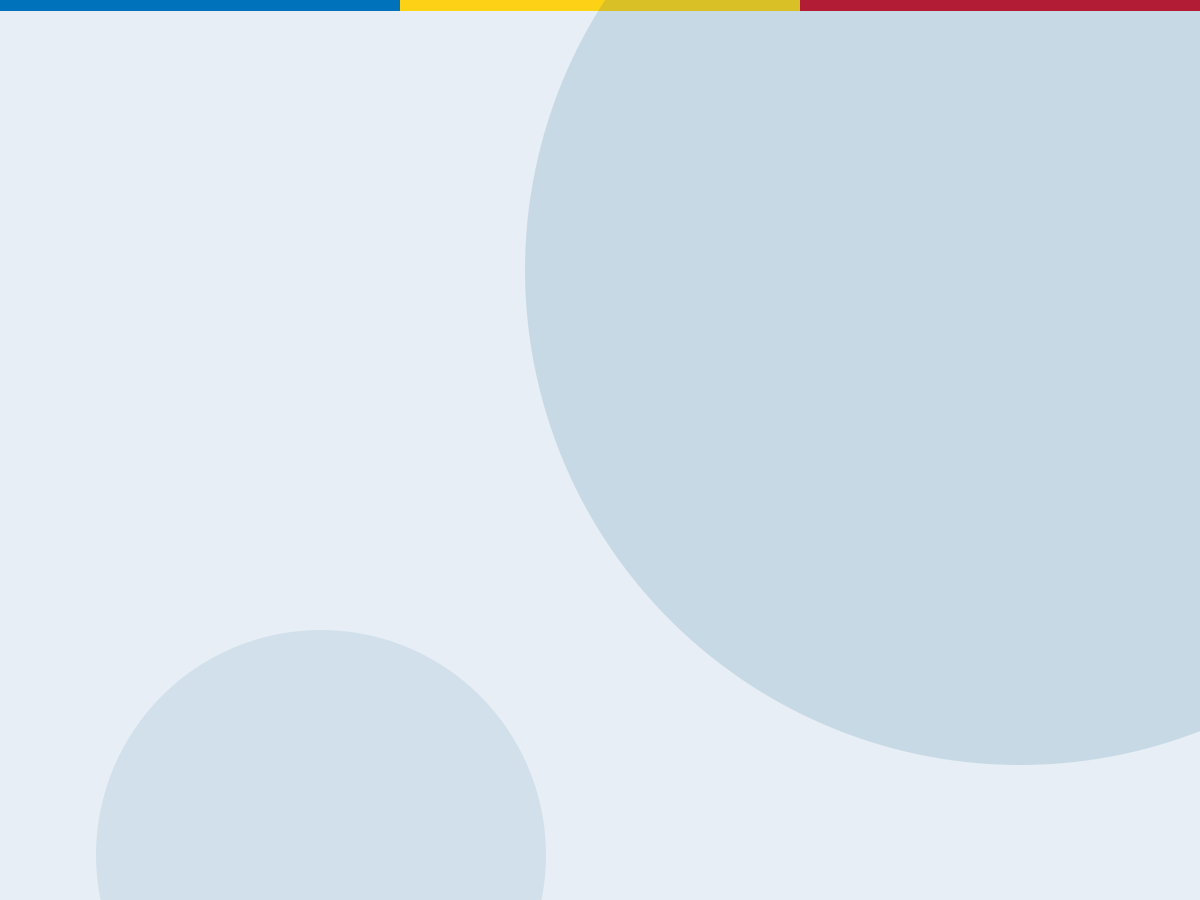
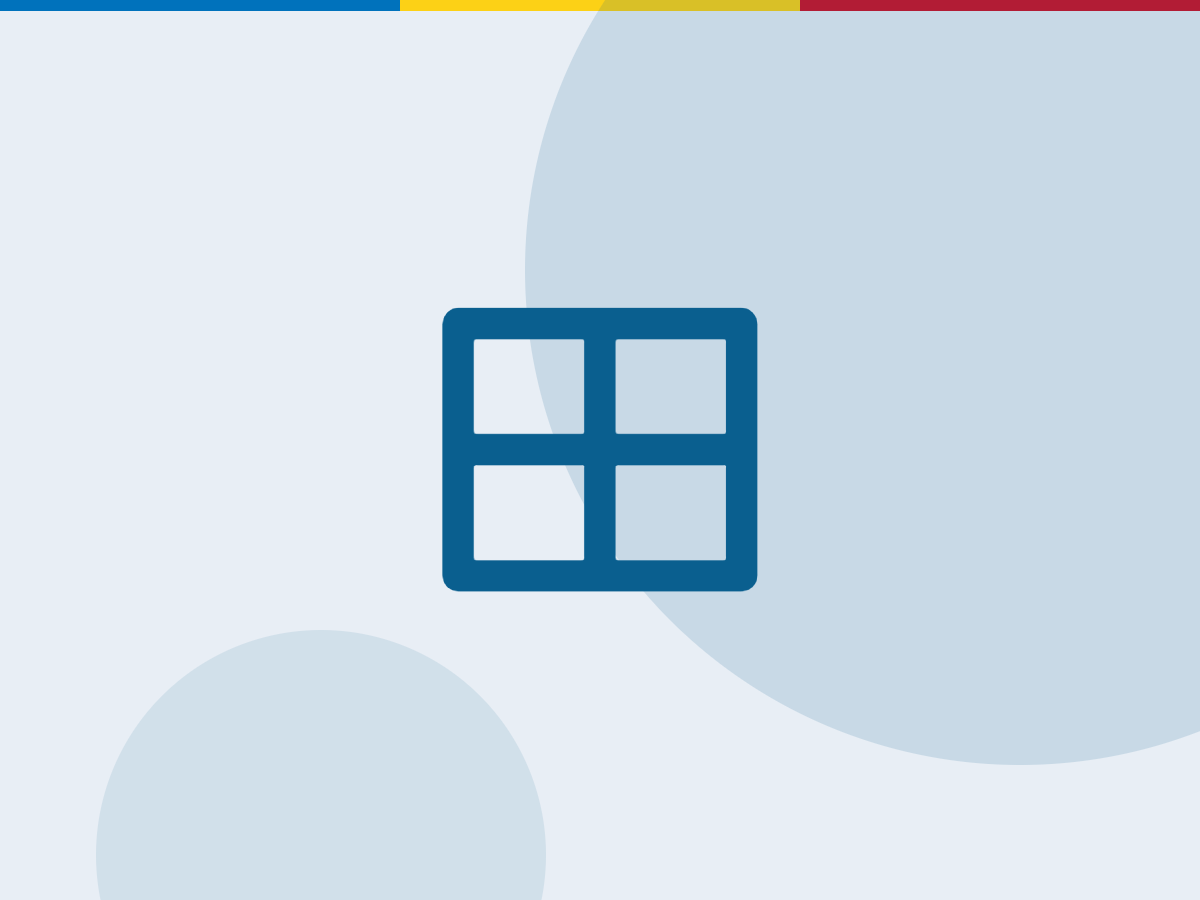
Relecture des composants : image et texte côte à côte, bandeau sur image, en-tête 4:3, onglets sans icône, pictogrammes et illustrations, index des exemples, guides illustrés, page contact ; SDCD 0.18.6

Changed region(s): [[0.37, 0.3422, 0.6475, 0.6844]]

diff --git a/sdcd/static/sdcd/components.css b/sdcd/static/sdcd/components.css
@@ -1250,7 +1250,9 @@ li > a:only-child {
    presentation de chaque carte : fond, bordure, ombre, disposition. Sans eux le
    portage aurait supprime une capacite editoriale existante — ce qui aurait ete
    une regression deguisee en migration. */
-.sdcd-card--horizontal { display: flex; }
+/* Horizontale : en rangee (la base est une colonne), le media a gauche par
+   son `order`, aligne sur toute la hauteur de la carte. */
+.sdcd-card--horizontal { display: flex; flex-direction: row; align-items: stretch; }
 .sdcd-card--horizontal .sdcd-card__media { width: 33%; height: auto; flex-shrink: 0; }
 .sdcd-card--horizontal .sdcd-card__corps { flex: 1; min-width: 0; }
 .sdcd-card--gris { background: var(--sdcd-fond-alt); }
@@ -1277,7 +1279,11 @@ li > a:only-child {
 
 .sdcd-tile {
   display: flex;
-  flex-direction: column;
+  /* Le pictogramme vient apres le corps dans le balisage (gabarits du CMS,
+     comme dans le DSFR) mais se lit en haut : l'ordre est inverse, et le
+     contenu reste cale en haut de la tuile quand la grille l'etire. */
+  flex-direction: column-reverse;
+  justify-content: flex-end;
   gap: var(--sdcd-3);
   padding: 20px;
   text-decoration: none;
@@ -2503,6 +2509,8 @@ dialog.sdcd-modal__voile:not([open]) { display: none; }
   padding: var(--sdcd-5);
   display: flex;
   flex-direction: column;
+  /* Sans cela, un bouton place dans l'exergue s'etirait sur toute sa largeur. */
+  align-items: flex-start;
   gap: var(--sdcd-2);
   font-family: var(--sdcd-font);
 }
@@ -2824,7 +2832,10 @@ dialog.sdcd-modal__voile:not([open]) { display: none; }
 /* La tuile offre les memes reglages de presentation que la carte : le rediger
    choisit fond, bordure, ombre et disposition sans avoir a savoir lequel des
    deux composants il emploie. */
-.sdcd-tile--horizontal { flex-direction: row; align-items: center; }
+/* Horizontale : le corps a gauche prend la place, le pictogramme a droite. */
+.sdcd-tile--horizontal { flex-direction: row; align-items: center; justify-content: space-between; gap: var(--sdcd-4); }
+.sdcd-tile--horizontal > :first-child { flex: 1 1 auto; min-width: 0; }
+.sdcd-tile--horizontal > :last-child { flex: 0 0 auto; }
 .sdcd-tile--gris { background: var(--sdcd-fond-alt); }
 .sdcd-tile--sans-fond { background: transparent; }
 .sdcd-tile--sans-bordure { border: none; }
@@ -3011,6 +3022,15 @@ button.sdcd-header__lien[aria-expanded="true"]::after { transform: rotate(180deg
 .sdcd-nav__item:has(> .sdcd-megamenu) { position: static; }
 /* Onglets : la liste des onglets passe a la ligne au lieu de deborder. */
 .sdcd-tabs__liste { flex-wrap: wrap; }
+/* Deux listes de boutons qui se suivent dans un contenu se touchaient. */
+.sdcd-boutons + .sdcd-boutons { margin-top: var(--sdcd-3); }
+/* Bloc sur image de fond : l'image couvre le bloc, le texte passe en blanc
+   (le gabarit pose un voile sombre dans le degrade de fond). */
+.sdcd-fond-image { background-size: cover; background-position: center; background-repeat: no-repeat; color: #fff; }
+.sdcd-fond-image :is(h1, h2, h3, h4, p, li) { color: #fff; }
+.sdcd-fond-image .sdcd-button--secondaire { border-color: #fff; color: #fff; }
+/* Deux mises en avant qui se suivent se lisaient comme un seul bloc. */
+.sdcd-highlight + .sdcd-highlight { margin-top: var(--sdcd-3); }
 /* Bandeau : sous une certaine largeur le texte passe sous le titre au lieu de
    se comprimer en colonne etroite a cote de lui (vu sur telephone). */
 .sdcd-notice__texte { flex: 1 1 320px; margin: 0; }

diff --git a/sites_conformes/core/templates/sites_conformes_core/blocks/full_width_background.html b/sites_conformes/core/templates/sites_conformes_core/blocks/full_width_background.html
@@ -1,9 +1,13 @@
 {% load dsfr_tags wagtailcore_tags wagtailimages_tags %}
 {% image value.bg_image original as bg_img %}
-<div class="sdcd-py-7 {{ value.vertical_margin }} cmsfr-block-full-width-background"
-     {% if value.bg_color_class or bg_img or value.bg_color %}style="background:{% endif %}
-     {% if bg_img %}no-repeat center url({{ bg_img.url }}){% endif %}
-     {% if value.bg_color_class %} var(--sdcd-fond-{{ value.bg_color_class }}) {% elif value.bg_color %}{{ value.bg_color }}{% endif %}
-     {% if value.bg_color_class or bg_img or value.bg_color %};"{% endif %}>
+{% comment %}
+  Avec une image : elle couvre le bloc (et non a sa taille naturelle, coupee),
+  sous un voile sombre qui garde le texte lisible, en blanc (classe
+  sdcd-fond-image du systeme). Sans image : la couleur de fond choisie.
+{% endcomment %}
+<div class="sdcd-py-7 {{ value.vertical_margin }} cmsfr-block-full-width-background{% if bg_img %} sdcd-fond-image{% endif %}"
+     {% if bg_img %}style="background-image: linear-gradient(rgba(10, 22, 34, .62), rgba(10, 22, 34, .62)), url({{ bg_img.url }});"
+     {% elif value.bg_color_class %}style="background: var(--sdcd-fond-{{ value.bg_color_class }});"
+     {% elif value.bg_color %}style="background: {{ value.bg_color }};"{% endif %}>
   <div class="sdcd-conteneur">{% include "sites_conformes_core/blocks/blocks_stream.html" with stream=value.content %}</div>
 </div>

diff --git a/sites_conformes/core/templates/sites_conformes_core/blocks/image_and_text.html b/sites_conformes/core/templates/sites_conformes_core/blocks/image_and_text.html
@@ -7,7 +7,7 @@
           {% include "sites_conformes_core/blocks/image_svg_or_raster.html" with extra_classes="sdcd-image-fluide" %}
         </div>
       </div>
-      <div class="sdcd-col-12 sdcd-col-sm-12{{ -12|add:value.image_ratio }}">
+      <div class="sdcd-col-12 sdcd-col-sm-{{ largeur_texte }}">
         {{ value.text|richtext }}
 
         {% if value.link is not None and value.link.url %}
@@ -21,7 +21,7 @@
         {% endif %}
       </div>
     {% else %}
-      <div class="sdcd-col-12 sdcd-col-sm-12{{ -12|add:value.image_ratio }}{% if value.image_side == "right_above" %} cmsfr-order-mobile__2{% endif %}">
+      <div class="sdcd-col-12 sdcd-col-sm-{{ largeur_texte }}{% if value.image_side == "right_above" %} cmsfr-order-mobile__2{% endif %}">
         {{ value.text|richtext }}
 
         {% if value.link is not None and value.link.url %}

diff --git a/sites_conformes/core/templates/sites_conformes_core/heros/hero_image_text.html b/sites_conformes/core/templates/sites_conformes_core/heros/hero_image_text.html
@@ -8,7 +8,12 @@
         {% include "sites_conformes_core/heros/_hero_buttons.html" %}
       </div>
        <div class="sdcd-col-md-6">
-      {% image value.image fill-600x600 as header_image %}
+      {% comment %}
+        4:3 plutot que le carre d'origine : une image d'en-tete est presque
+        toujours en paysage, et le carre la coupait sur les cotes tout en
+        faisant un en-tete plus haut que son texte.
+      {% endcomment %}
+      {% image value.image fill-720x540 as header_image %}
       <img class="sdcd-image-fluide"
            src="{{ header_image.full_url }}"
            alt="{{ header_image.alt }}" />

diff --git a/sites_conformes/core/templates/sites_conformes_core/blocks/tabs.html b/sites_conformes/core/templates/sites_conformes_core/blocks/tabs.html
@@ -9,7 +9,7 @@
     {% for tab_block in block.value %}
       <li role="presentation">
         <button id="tabpanel-{{ block.id }}-{{ forloop.counter }}"
-                class="sdcd-tabs__onglet ri-checkbox-line sdcd-tabs__onglet--icone-gauche"
+                class="sdcd-tabs__onglet"
                 tabindex="{% if forloop.first %}0{% else %}-1{% endif %}"
                 role="tab"
                 aria-selected="{% if forloop.first %}true{% else %}false{% endif %}"

diff --git a/sites_conformes/core/management/commands/create_showcase_pages.py b/sites_conformes/core/management/commands/create_showcase_pages.py
@@ -67,6 +67,21 @@ class Command(BaseCommand):
             self.stderr.write(self.style.ERROR("La page de contact est absente : lancez `create_starter_pages`."))
             return
         pages["contact"] = contact
+        # Le texte de depart de la page de contact gardait un « <autres
+        # methodes> » a remplacer : on le remplace.
+        contact = contact.specific
+        if not self.laisser(contact, "contact"):
+            contact.intro = (
+                "<p>Une question sur Sites Conformes, une demande d’ouverture de site, un défaut à "
+                "signaler ? Écrivez-nous avec ce formulaire : l’équipe répond sous deux jours ouvrés.</p>"
+                "<p>Vous pouvez aussi joindre le service au +243 81 000 00 00, du lundi au vendredi de "
+                "8 h à 16 h, ou passer au ministère du Numérique, boulevard du 30 Juin à Kinshasa-Gombe.</p>"
+            )
+            contact.thank_you_text = (
+                "<p>Merci, votre message est bien arrivé. Vous recevrez une réponse à l’adresse indiquée "
+                "sous deux jours ouvrés.</p>"
+            )
+            self.publier(contact, "contact")
 
         # ---------------------------------------------------------- documentation
         # Un index « Documentation » (catalogue : ses sous-pages s'y listent en
@@ -74,8 +89,15 @@ class Command(BaseCommand):
         # guides crees a la racine par une version anterieure y sont deplaces.
         doc = self.index(CatalogIndexPage, racine, "documentation", "Documentation", documentation.INTRO)
         pages["documentation"] = doc
+        # Une illustration par guide : sans image, l'index de la documentation
+        # n'alignait que trois cartes de texte.
+        illustrations = {
+            "creer-votre-site": images["illustration-redaction"],
+            "systeme-de-design": images["illustration-blocs"],
+            "questions-frequentes": images["illustration-securite"],
+        }
         for slug, titre, corps, _ordre in documentation.PAGES:
-            page = self.page_contenu(doc, slug, titre, corps())
+            page = self.page_contenu(doc, slug, titre, corps(), image=illustrations.get(slug))
             if page.get_parent().pk != doc.pk:
                 page.move(doc, pos="last-child")
                 page = ContentPage.objects.get(pk=page.pk)
@@ -157,6 +179,10 @@ class Command(BaseCommand):
             ancienne.delete()
         pages["composant-blocs"] = next((p for p in pages_composants if "bloc" in p.slug), None) or pages["systeme-de-design"]
         pages["modeles"] = modeles or index
+        # L'index des exemples, maintenant que toutes ses rubriques existent.
+        if not self.laisser(index, "exemples"):
+            index.body = exemples.corps_exemples(images, pages)
+            self.publier(index, "exemples")
 
         # ----------------------------------------------------------------- accueil
         racine.title = "Sites Conformes"

diff --git a/sites_conformes/core/vitrine/exemples.py b/sites_conformes/core/vitrine/exemples.py
@@ -78,11 +78,33 @@ INTRO_EXEMPLES = [
         "avec les blocs du CMS et rien d’autre. Ouvrez-la, puis retrouvez-la dans le "
         "back-office pour voir comment elle est assemblée.</p>"
         "<p>Les exemples de pages montrent un cas d’usage complet : page d’atterrissage, "
-        "site vitrine, blog, agenda, catalogue, formulaire. Les exemples de composants, "
-        "regroupés dans les modèles de pages à copier, montrent chaque bloc dans "
-        "toutes ses variantes.</p>"
+        "site vitrine, actualités, agenda, catalogue, formulaire. Les pages de composants "
+        "montrent chaque bloc dans toutes ses variantes.</p>"
     ),
 ]
+
+
+def corps_exemples(images, pages):
+    """L'index des exemples, une fois toutes les pages creees.
+
+    Le catalogue ne liste de lui-meme que ses pages de contenu : les rubriques
+    (actualites, agenda, catalogue, formulaire, composants) n'y figuraient pas.
+    """
+    return INTRO_EXEMPLES + [
+        paragraphe("<h2>Rubriques</h2>"),
+        grille([
+            ("card", carte("Actualités", "Des articles classés par catégorie et par étiquette, avec leurs auteurs.",
+                           page=pages["actualites"], image=images["actualite-numerique"], ratio="sdcd-ratio-16x9")),
+            ("card", carte("Agenda", "Des événements filtrables par date et par catégorie, avec leur lieu.",
+                           page=pages["agenda"], image=images["evenement-conference"], ratio="sdcd-ratio-16x9")),
+            ("card", carte("Catalogue de services", "Des fiches classées par étiquette, l’étapier d’une démarche dans chacune.",
+                           page=pages["catalogue-de-services"], image=images["service-etat-civil"], ratio="sdcd-ratio-16x9")),
+            ("card", carte("Formulaire", "Tous les types de champs, les réponses consultables dans le back-office.",
+                           page=pages["formulaire-de-demonstration"], image=images["illustration-redaction"], ratio="sdcd-ratio-16x9")),
+            ("card", carte("Composants", "Chaque bloc du CMS dans ses variantes, avec où le trouver dans le back-office.",
+                           page=pages["composants"], image=images["illustration-blocs"], ratio="sdcd-ratio-16x9")),
+        ], largeur="4"),
+    ]
 
 
 INTRO_COMPOSANTS = [

diff --git a/sites_conformes/core/vitrine/accueil.py b/sites_conformes/core/vitrine/accueil.py
@@ -43,19 +43,19 @@ def corps(images, pages, blog, agenda):
             ("tile", tuile("Un site conforme au système de design",
                            "<p>Armoiries, filet tricolore, typographie et couleurs sont posés par "
                            "le système. Les règles d’accessibilité sont intégrées aux composants.</p>",
-                           page=pages["systeme-de-design"], image=images["picto-conformite"])),
+                           page=pages["systeme-de-design"], image=images["picto-conformite"], horizontale=True)),
             ("tile", tuile("Un site géré en autonomie",
                            "<p>Aucune compétence informatique n’est nécessaire pour publier et "
                            "mettre à jour. Une matinée suffit pour prendre l’outil en main.</p>",
-                           page=pages["creer-votre-site"], image=images["picto-autonomie"])),
+                           page=pages["creer-votre-site"], image=images["picto-autonomie"], horizontale=True)),
             ("tile", tuile("Un budget maîtrisé",
                            "<p>Le logiciel est libre et gratuit. Seuls l’hébergement et "
                            "l’éventuel accompagnement restent à la charge du service.</p>",
-                           page=pages["questions-frequentes"], image=images["picto-budget"])),
+                           page=pages["questions-frequentes"], image=images["picto-budget"], horizontale=True)),
             ("tile", tuile("Un site sécurisé et hébergé où vous voulez",
                            "<p>Mises à jour de sécurité suivies, en-têtes de protection posés par "
                            "défaut, hébergement chez l’État ou chez un prestataire agréé.</p>",
-                           page=pages["questions-frequentes"], image=images["picto-securite"])),
+                           page=pages["questions-frequentes"], image=images["picto-securite"], horizontale=True)),
         ], largeur="6"),
 
         fond([

diff --git a/sites_conformes/core/blocks/basics.py b/sites_conformes/core/blocks/basics.py
@@ -179,6 +179,21 @@ class ImageAndTextBlock(blocks.StructBlock):
         help_text=_("The link is shown at the bottom of the text block, with an arrow"),
     )
 
+    def get_context(self, value, parent_context=None):
+        """La colonne de texte prend le reste des douze colonnes.
+
+        Le gabarit calculait sa largeur par `12{{ -12|add:ratio }}`, qui rend
+        « 12-8 » pour une image sur 4 : une classe inexistante, et le texte
+        passait sous l'image au lieu de se poser a cote.
+        """
+        contexte = super().get_context(value, parent_context)
+        try:
+            image = int(value.get("image_ratio") or 4)
+        except (TypeError, ValueError):
+            image = 4
+        contexte["largeur_texte"] = max(12 - image, 1)
+        return contexte
+
     class Meta:
         icon = "image"
         template = "sites_conformes_core/blocks/image_and_text.html"

diff --git a/sites_conformes/core/vitrine/composants.py b/sites_conformes/core/vitrine/composants.py
@@ -351,9 +351,9 @@ def grilles(images, pages):
         ], haut=2, bas=2),
         paragraphe("<h2>Colonnes avec titre et fond</h2>"),
         colonnes("Trois chiffres", [
-            ("4", [("text", rt("<p class=\"sdcd-display-xs\">64</p><p>sites ouverts depuis janvier</p>"))]),
-            ("4", [("text", rt("<p class=\"sdcd-display-xs\">310</p><p>rédacteurs formés</p>"))]),
-            ("4", [("text", rt("<p class=\"sdcd-display-xs\">9 / 10</p><p>consultations depuis un téléphone</p>"))]),
+            ("4", [("text", rt("<p class=\"sdcd-display\">64</p><p>sites ouverts depuis janvier</p>"))]),
+            ("4", [("text", rt("<p class=\"sdcd-display\">310</p><p>rédacteurs formés</p>"))]),
+            ("4", [("text", rt("<p class=\"sdcd-display\">9 / 10</p><p>consultations depuis un téléphone</p>"))]),
         ], couleur="gris"),
     ]
 

diff --git a/sites_conformes/core/vitrine/outils.py b/sites_conformes/core/vitrine/outils.py
@@ -38,10 +38,11 @@ def bouton(texte, page=None, url=None, type_="sdcd-button sdcd-button--primaire"
 
 
 def tuile(titre, texte, page=None, url=None, image=None, badge=None, petite=False, niveau="h3", detail="",
-          couleur_badge="info"):
+          couleur_badge="info", horizontale=False):
     # Les couleurs de badge sont celles du systeme (succes, info, alerte,
     # erreur) ou d'illustration (chart-N) : « nouveau » n'en fait pas partie.
-    valeur = {"title": titre, "heading_tag": niveau, "description": rt(texte), "is_small": petite}
+    valeur = {"title": titre, "heading_tag": niveau, "description": rt(texte), "is_small": petite,
+              "is_horizontal": horizontale}
     if page is not None or url:
         valeur["link"] = lien_page(page) if page is not None else lien_externe(url)
     if image is not None:

diff --git a/MODIFICATIONS.md b/MODIFICATIONS.md
@@ -733,8 +733,15 @@ classes SDCD, politique CSP/HSTS, README.
 | `sites_conformes/core/management/commands/create_showcase_pages.py`, `core/vitrine/exemples.py`, `configuration.py` | Les modeles de pages a copier vivent hors du site (sans URL) : le menu les reliait par `href="None"`. Un index public « Composants » sous Exemples recoit une copie de chaque modele ; le menu relie les copies. Resumes des dix modeles |
 | `sites_conformes/core/tests/test_showcase_pages.py` | Composants publics sous `/exemples/composants/`, aucun `href="None"` ni `href="#"` dans l'en-tete, etats de l'etapier rendus |
 | `sites_conformes/locale/fr/LC_MESSAGES/django.po`, `django.mo` | « Next step: », « completed », « current step » |
-| `sdcd/static/sdcd/components.css` | SDCD 0.18.5 (mega-menu, etapier, menu lateral, navigation mobile) |
+| `sdcd/static/sdcd/components.css` | SDCD 0.18.6 (mega-menu, etapier, menu lateral, navigation mobile, tuiles, cartes) |
 | `sites_conformes/menus/templatetags/wagtail_dsfr_menus_tags.py`, `templates/.../header.html`, `menus/templates/.../main_menu_megamenu.html`, `main_menu_submenu.html` | Le menu est rendu deux fois (bureau, mobile) avec les memes identifiants de region : le JavaScript n'ouvrait que la premiere, et ni mega-menu ni sous-menu ne s'ouvraient dans le panneau mobile. La navigation mobile passe un suffixe `-mobile` aux identifiants |
 | `sites_conformes/core/templates/.../blocks/pagetree.html` | La racine de l'arbre du menu lateral etait toujours marquee page courante ; puces et retrait des listes retires dans SDCD 0.18.3 |
 | `sites_conformes/core/management/commands/create_showcase_pages.py` | Les copies de composants recoivent chacune une vignette de la vitrine (les modeles amont portaient des illustrations de leur site d'origine) ; leur arbre de pages est rattache a l'index Composants, celui des modeles a leur index (l'identifiant amont n'existait pas et la page ne validait plus) |
 | `sites_conformes/core/vitrine/composants.py` (nouveau), `outils.py`, `exemples.py`, `create_showcase_pages.py` | Les dix pages de composants sont redigees (tuiles, cartes, accordeons, etapiers, en-tetes et bandeaux, blocs simples, mise en valeur, grilles, menu lateral, onglets et fiches contact) avec un contenu en contexte congolais et les images de la vitrine ; elles remplacent les copies des modeles amont. Fabriques ajoutees : carte horizontale, image centree, lien simple, separateur, ancre, texte et appel a action, fond avec menu lateral ; couleur de badge « nouveau » (hors choix) remplacee par « info ». La commande ne cherche les pages de composants que sous leur index : elles partagent leurs slugs avec les modeles hors site |
+| `sites_conformes/core/templates/.../blocks/image_and_text.html`, `core/blocks/basics.py` | La colonne de texte prenait une classe inexistante (« 12-8 ») et passait sous l'image : largeur calculee dans le bloc |
+| `.../blocks/full_width_background.html` | Image de fond en couverture sous un voile sombre, texte blanc (`sdcd-fond-image`) ; elle s'affichait a sa taille, coupee, sous un texte sombre |
+| `.../heros/hero_image_text.html` | Image d'en-tete en 4:3 (720x540) au lieu du carre 600x600 |
+| `.../blocks/tabs.html` | Icone « case cochee » retiree des onglets (reliquat du modele amont) |
+| `sites_conformes/core/showcase_images/picto-*.png`, `illustration-*.png`, `portrait-*.png` | Pictogrammes sur fond transparent ; illustrations et portraits regeneres avec leur glyphe (les fichiers etaient vides) |
+| `sites_conformes/core/vitrine/accueil.py` | Les quatre tuiles « bonnes raisons » en horizontal, pictogramme a droite |
+| `sdcd/static/sdcd/` | SDCD 0.18.6 |
